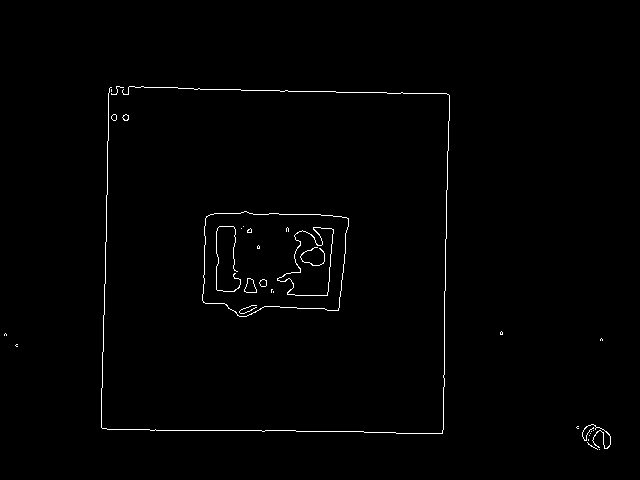
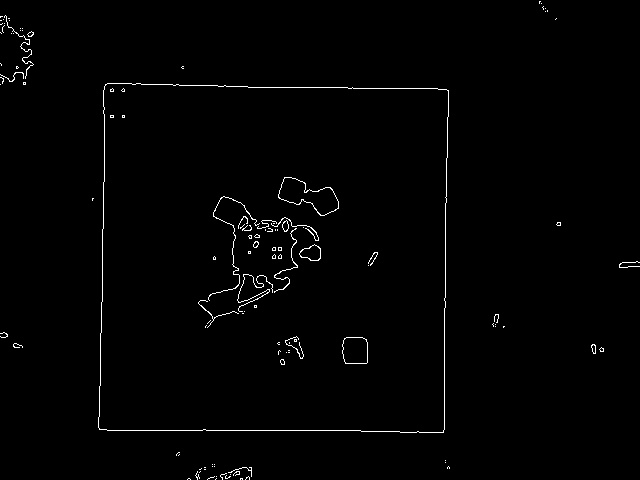
automated calibration

diff --git a/kinect.py b/kinect.py
@@ -206,8 +206,6 @@ class Kinect():
 			return 0,0
 
 	def cornersBlock(self,contour):
-		#perimeter = cv2.arcLength(contour, True)
-		#approx = cv2.approxPolyDP(contour, 0.02 * perimeter, True)
 		rect = cv2.minAreaRect(contour)
 		corners = cv2.boxPoints(rect)
 		corners = np.int0(box)
@@ -497,12 +495,12 @@ class Kinect():
 
 	def rgbedges(self):
 		image = freenect.sync_get_video_with_res()[0]
-		image = cv2.GaussianBlur(image, (5,5),2)
+		image = cv2.medianBlur(image, 3)
 		image = cv2.cvtColor(image, cv2.COLOR_RGB2GRAY)
 		ret,image  = cv2.threshold(image,220,255,cv2.THRESH_BINARY)
-		#cv2.imwrite("gray_rgb.jpg",image)
+		cv2.imwrite("gray_rgb.jpg",image)
 		image = cv2.Canny(image, 200, 250)
-		#cv2.imwrite("gray_rgb_edge.jpg",image)
+		cv2.imwrite("gray_rgb_edge.jpg",image)
 		return image
 
 	def depthedges(self):
@@ -510,9 +508,9 @@ class Kinect():
 		image = cv2.GaussianBlur(image, (5,5),2)
 		image  = cv2.inRange(image, 717, 725)
 		image = image
-		#cv2.imwrite("gray_depth.jpg",image)
+		cv2.imwrite("gray_depth.jpg",image)
 		image = cv2.Canny(image, 100, 250)
-		#cv2.imwrite("gray_depth_edge.jpg",image)
+		cv2.imwrite("gray_depth_edge.jpg",image)
 		return image
 
 	def cornerscal(self, image):
@@ -524,83 +522,83 @@ class Kinect():
 			#print("could not find four corners try again")
 			return None
 
+	def drawinglines(self, line_parameters):
+		print("drawing lines")
+		depth = self.currentDepthFrame*0
+		for i in range(len(line_parameters)):
+			theta = line_parameters[i][0][1]
+			rho = line_parameters[i][0][0]
+			a = np.cos(theta)
+			b = np.sin(theta)
+			x0 = a*rho
+			y0 = b*rho
+			x1 = int(x0 + 1000*(-b))
+			y1 = int(y0 + 1000*(a))
+			x2 = int(x0 - 1000*(-b))
+			y2 = int(y0 - 1000*(a))
+			cv2.line(depth,(x1,y1),(x2,y2),(255,255,255),1)
+		return depth
 
 	def houghlines(self):
-		#print("finding lines")
+		print("finding lines")
 		depth = self.currentDepthFrame*0
 		rgbedges = self.rgbedges()
 		depthedges = self.depthedges()
 
 		rgblines = []
 		counter  =  20
-		while(len(rgblines) != 4 and counter != 0):
-			#print("Looking for color lines")
-			rgblines = cv2.HoughLines( rgbedges, 1, np.pi/100, 100)
+		while(len(rgblines) != 4):
+			rgblines = cv2.HoughLines( rgbedges, 1, np.pi/180, 130)
+			print(len(rgblines))
+		print("lines found rgb")
 
-		#print("lines found rgb")
 		depthlines = []
 		counter = 20
 		while(len(depthlines) != 4 and counter != 0):
-			#print("Looking for depth lines")
-			depthlines = cv2.HoughLines( depthedges, 1, np.pi/90, 90 - (20 - counter))
+			depthlines = cv2.HoughLines( depthedges, 1, np.pi/90, 100 - (20 - counter))
 			counter = counter - 1
+			print(len(depthlines))
 
-		#print("lines found depth")
+		print("lines found depth")
 
-
-		depthcoordinates = []
-		for i in range(len(depthlines)):
-			theta = depthlines[i][0][1]
-			rho = depthlines[i][0][0]
-			a = np.cos(theta)
-			b = np.sin(theta)
-			x0 = a*rho
-			y0 = b*rho
-			x1 = int(x0 + 1000*(-b))
-			y1 = int(y0 + 1000*(a))
-			x2 = int(x0 - 1000*(-b))
-			y2 = int(y0 - 1000*(a))
-			#print(x0,y0,x1,y1,x2,y2)
-			cv2.line(depth,(x1,y1),(x2,y2),(255,255,255),1)
-		#cv2.imwrite("g_depth.jpg",depth)
+		depth = self.drawinglines(depthlines)
+		cv2.imwrite("g_depth.jpg",depth)
 		self.corners_depth = self.cornerscal(depth)
-		#print("Depth corners",self.corners_depth)
+		print("Depth corners",self.corners_depth)
 		depth = depth*0
-
-		for i in range(len(rgblines)):
-			theta = rgblines[i][0][1]
-			rho = rgblines[i][0][0]
-			a = np.cos(theta)
-			b = np.sin(theta)
-			x0 = a*rho
-			y0 = b*rho
-			x1 = int(x0 + 1000*(-b))
-			y1 = int(y0 + 1000*(a))
-			x2 = int(x0 - 1000*(-b))
-			y2 = int(y0 - 1000*(a))
-			#print(x0,y0,x1,y1,x2,y2)
-			cv2.line(depth,(x1,y1),(x2,y2),(255,255,255),1)
-
-
-		#cv2.imwrite("g_rgb.jpg",depth)
+		depth = self.drawinglines(rgblines)
+		cv2.imwrite("g_rgb.jpg",depth)
 		self.corners_rgb = self.cornerscal(depth)
-		#print("RGB corners",self.corners_rgb)
+		print("RGB corners",self.corners_rgb)
 
-		depth_corner_lb = self.corners_depth[1]
-		depth_corner_lt = self.corners_depth[2]
-		depth_corner_rt = self.corners_depth[3]
-		depth_corner_rb = self.corners_depth[0]
+		for i in range(4):
+			print("sorting")
+			print(self.corners_depth[i][0][0])
+			if (self.corners_depth[i][0][0]>400 and self.corners_depth[i][0][1]<200):
+				depth_corner_lb = self.corners_depth[i]
+			elif (self.corners_depth[i][0][0]<200 and self.corners_depth[i][0][1]<200):
+				depth_corner_lt = self.corners_depth[i]
+			elif (self.corners_depth[i][0][0]<200 and self.corners_depth[i][0][1]>400):
+				depth_corner_rt = self.corners_depth[i]
+			else:
+				depth_corner_rb = self.corners_depth[i]
 
+		for i in range(4):
+			print("sorting")
+			if (self.corners_rgb[i][0][0]>400 and self.corners_rgb[i][0][1]<200):
+				rgb_corner_lb = self.corners_rgb[i]
+			elif (self.corners_rgb[i][0][0]<200 and self.corners_rgb[i][0][1]<200):
+				rgb_corner_lt = self.corners_rgb[i]
+			elif (self.corners_rgb[i][0][0]<200 and self.corners_rgb[i][0][1]>400):
+				rgb_corner_rt = self.corners_rgb[i]
+			else:
+				rgb_corner_rb = self.corners_rgb[i]
 
-		rgb_corner_lb = self.corners_rgb[2]
-		rgb_corner_lt = self.corners_rgb[3]
-		rgb_corner_rt = self.corners_rgb[1]
-		rgb_corner_rb = self.corners_rgb[0]
 
 		self.corners_depth = [depth_corner_lb, depth_corner_lt, depth_corner_rt, depth_corner_rb]
 		self.corners_rgb = [rgb_corner_lb, rgb_corner_lt, rgb_corner_rt, rgb_corner_rb]
 
-
+		print(self.corners_depth,self.corners_rgb)
 """ def apriltagtransformation(self):
 		detector = apriltag("tagStandard41h12", threads=4, decimate=2.0)
 		d = .060

diff --git a/state_machine.py b/state_machine.py
@@ -580,7 +580,7 @@ class StateMachine():
 		else:
 			self.set_next_state("idle")
 
-
+		self.status_message = "Calibrating"
 		self.tp.go(max_speed=2.0)
 		location_strings = ["lower left corner of board",
 							"upper left corner of board",
